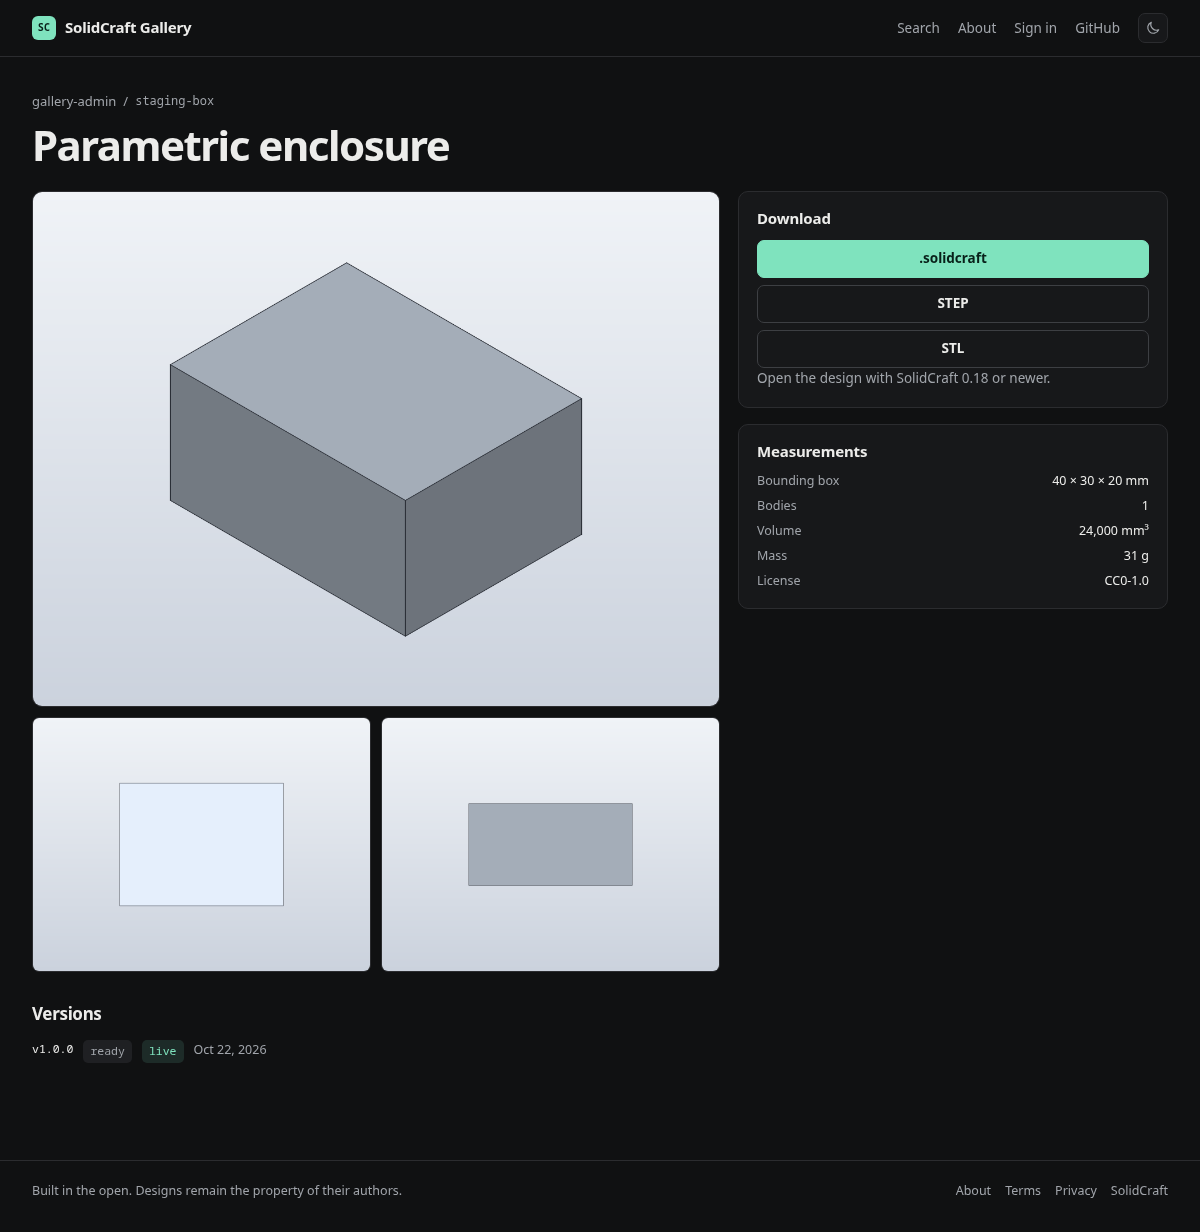
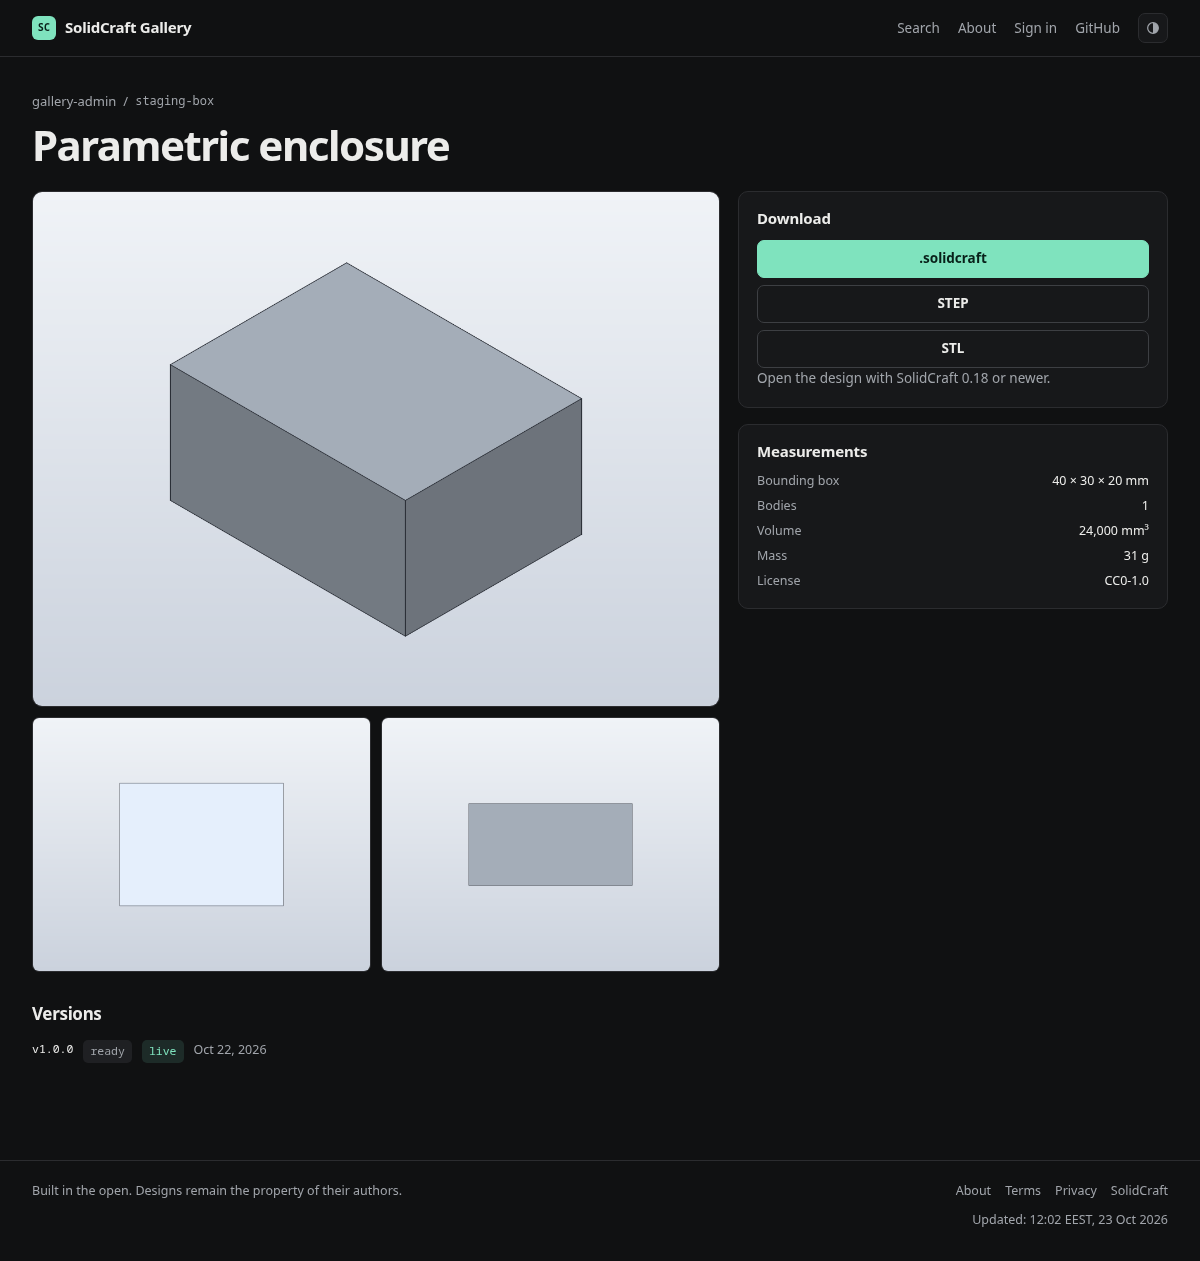
feat: show the site build time in the footer

diff --git a/apps/web/src/lib/server/updated.ts b/apps/web/src/lib/server/updated.ts
@@ -1,0 +1,35 @@
+/**
+ * Injected by `vite.config.ts` when the dev server starts or `vite build` runs.
+ * In the deployed image this is the moment the release was built, not the
+ * moment a visitor requests the page.
+ */
+declare const __SITE_BUILT_AT__: string;
+
+/** The instant the running web bundle was built. */
+export function siteBuiltAt(): Date {
+  // `typeof` keeps the module usable if it is ever evaluated outside Vite.
+  const value = typeof __SITE_BUILT_AT__ === 'string' ? __SITE_BUILT_AT__ : '';
+  const built = new Date(value);
+  return Number.isNaN(built.getTime()) ? new Date() : built;
+}
+
+/**
+ * Formats an instant as `11:55 CEST, 23 Oct 2026`. `Intl` returns the parts in
+ * locale order, so they are read individually and composed time-first.
+ */
+export function formatUpdatedAt(value: Date, timeZone?: string): string {
+  const parts = new Intl.DateTimeFormat('en-GB', {
+    timeZone,
+    day: 'numeric',
+    month: 'short',
+    year: 'numeric',
+    hour: '2-digit',
+    minute: '2-digit',
+    hourCycle: 'h23',
+    timeZoneName: 'short',
+  }).formatToParts(value);
+
+  const part = (type: Intl.DateTimeFormatPartTypes) => parts.find((candidate) => candidate.type === type)?.value ?? '';
+
+  return `${part('hour')}:${part('minute')} ${part('timeZoneName')}, ${part('day')} ${part('month')} ${part('year')}`;
+}

diff --git a/apps/web/src/app.html b/apps/web/src/app.html
@@ -86,5 +86,29 @@
         init();
       })();
     </script>
+    <!-- The footer renders the build time in UTC; show it in the visitor's zone instead. -->
+    <script>
+      (() => {
+        const time = document.querySelector('time[data-site-updated]');
+        if (!time) return;
+        const instant = new Date(time.getAttribute('datetime') || '');
+        if (Number.isNaN(instant.getTime())) return;
+        try {
+          const parts = new Intl.DateTimeFormat('en-GB', {
+            day: 'numeric',
+            month: 'short',
+            year: 'numeric',
+            hour: '2-digit',
+            minute: '2-digit',
+            hourCycle: 'h23',
+            timeZoneName: 'short',
+          }).formatToParts(instant);
+          const part = (type) => parts.find((candidate) => candidate.type === type)?.value || '';
+          time.textContent = `${part('hour')}:${part('minute')} ${part('timeZoneName')}, ${part('day')} ${part('month')} ${part('year')}`;
+        } catch {
+          // Keep the server-rendered UTC value.
+        }
+      })();
+    </script>
   </body>
 </html>

diff --git a/apps/web/test/updated.test.ts b/apps/web/test/updated.test.ts
@@ -1,0 +1,23 @@
+import { describe, expect, it } from 'vitest';
+import { formatUpdatedAt, siteBuiltAt } from '../src/lib/server/updated.js';
+
+describe('formatUpdatedAt', () => {
+  it('renders the time first and the zone abbreviation', () => {
+    expect(formatUpdatedAt(new Date('2026-10-23T09:55:00Z'), 'UTC')).toBe('09:55 UTC, 23 Oct 2026');
+  });
+
+  it('follows summer and winter time in a named zone', () => {
+    expect(formatUpdatedAt(new Date('2026-10-23T09:55:00Z'), 'Europe/Berlin')).toBe('11:55 CEST, 23 Oct 2026');
+    expect(formatUpdatedAt(new Date('2026-01-15T09:55:00Z'), 'Europe/Berlin')).toBe('10:55 CET, 15 Jan 2026');
+  });
+
+  it('pads the clock but not the day', () => {
+    expect(formatUpdatedAt(new Date('2026-03-02T04:05:00Z'), 'UTC')).toBe('04:05 UTC, 2 Mar 2026');
+  });
+});
+
+describe('siteBuiltAt', () => {
+  it('returns a valid instant for the running build', () => {
+    expect(Number.isNaN(siteBuiltAt().getTime())).toBe(false);
+  });
+});

diff --git a/apps/web/src/routes/+layout.server.ts b/apps/web/src/routes/+layout.server.ts
@@ -1,10 +1,22 @@
 import { currentViewer } from '../lib/server/auth';
+import { formatUpdatedAt, siteBuiltAt } from '../lib/server/updated';
 
 export async function load(event) {
+  const builtAt = siteBuiltAt();
+
+  let viewer = null;
   try {
-    return { viewer: await currentViewer(event) };
+    viewer = await currentViewer(event);
   } catch {
     // The public shell must render even when the database is down.
-    return { viewer: null };
   }
+
+  return {
+    viewer,
+    siteUpdated: {
+      iso: builtAt.toISOString(),
+      // The no-JavaScript fallback is UTC; app.html localises it in the browser.
+      label: formatUpdatedAt(builtAt, 'UTC'),
+    },
+  };
 }

diff --git a/apps/web/vite.config.ts b/apps/web/vite.config.ts
@@ -3,6 +3,9 @@ import { sveltekit } from '@sveltejs/kit/vite';
 import { vitePreprocess } from '@sveltejs/vite-plugin-svelte';
 import { defineConfig } from 'vite';
 
+// Inlined into the server bundle so the footer can report the release time.
+const BUILT_AT = new Date().toISOString();
+
 export default defineConfig({
   plugins: [
     sveltekit({
@@ -10,5 +13,8 @@ export default defineConfig({
       adapter: adapter({ out: 'build' }),
     }),
   ],
+  define: {
+    __SITE_BUILT_AT__: JSON.stringify(BUILT_AT),
+  },
   server: { port: 5173, strictPort: true },
 });

diff --git a/apps/web/src/routes/+layout.svelte b/apps/web/src/routes/+layout.svelte
@@ -60,4 +60,10 @@
       <a href="https://github.com/tangency-labs/solidcraft">SolidCraft</a>
     </nav>
   </div>
+  <div class="shell footer-updated">
+    <span>
+      Updated:
+      <time datetime={data.siteUpdated.iso} data-site-updated>{data.siteUpdated.label}</time>
+    </span>
+  </div>
 </footer>

diff --git a/apps/web/src/app.css b/apps/web/src/app.css
@@ -1422,6 +1422,16 @@ select:disabled {
   gap: 14px;
 }
 
+.footer-updated {
+  justify-content: flex-end;
+  margin-top: 10px;
+  font-variant-numeric: tabular-nums;
+}
+
+.footer-updated time {
+  white-space: nowrap;
+}
+
 .site-footer a {
   color: var(--muted);
   text-decoration: none;

diff --git a/docs/10-frontend.md b/docs/10-frontend.md
@@ -59,9 +59,12 @@ back button works.
 | Featured | 3 projects, admin-selected, with large cards |
 | Recent | 12 newest public projects |
 | Popular tags | Top 20 tags with counts |
-| Footer | About, terms, privacy, source, status |
+| Footer | About, terms, privacy, source, and the build time (“Updated: 11:55 CEST, 23 Oct 2026”) |
 
 Empty instance: a single card explaining how to publish the first design.
+
+The footer’s “Updated” time is the bundle build time, inlined by `apps/web/vite.config.ts`. Server
+rendering prints it in UTC; the inline script in `app.html` rewrites it to the visitor’s zone.
 
 ### Search `/search`
 
